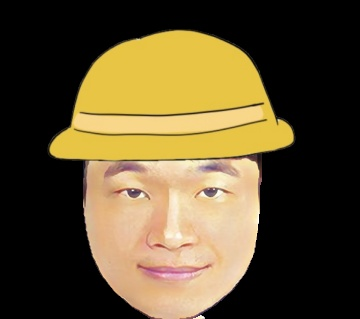
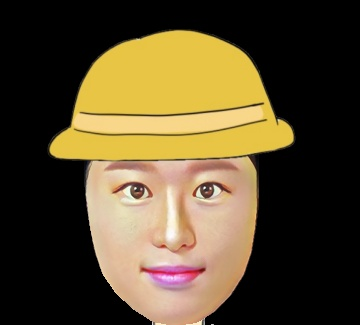
face_alignment 3

diff --git a/back/face_alignment2.py b/back/face_alignment2.py
@@ -1,0 +1,120 @@
+import cv2
+import numpy as numpy
+from google.colab.patches import cv2_imshow
+
+# Creating face_cascade and eye_cascade objects
+face_cascade=cv2.CascadeClassifier("haarcascade_frontalface_default.xml")
+eye_cascade=cv2.CascadeClassifier("haarcascade_eye.xml")
+
+# Loading the image
+img = cv2.imread('emily.jpg')
+cv2_imshow(img)
+
+# Converting the image into grayscale
+gray=cv2.cvtColor(img, cv2.COLOR_BGR2GRAY)
+# Creating variable faces
+faces= face_cascade.detectMultiScale (gray, 1.1, 4)
+# Defining and drawing the rectangle around the face
+for(x , y,  w,  h) in faces:
+  cv2.rectangle(img, (x,y) ,(x+w, y+h), (0,255,0), 3)
+cv2_imshow(img)
+
+# Creating two regions of interest
+roi_gray=gray[y:(y+h), x:(x+w)]
+roi_color=img[y:(y+h), x:(x+w)]
+
+# Creating variable eyes
+eyes = eye_cascade.detectMultiScale(roi_gray, 1.1, 4)
+index=0
+# Creating for loop in order to divide one eye from another
+for (ex , ey,  ew,  eh) in eyes:
+  if index == 0:
+    eye_1 = (ex, ey, ew, eh)
+  elif index == 1:
+    eye_2 = (ex, ey, ew, eh)
+# Drawing rectangles around the eyes
+  cv2.rectangle(roi_color, (ex,ey) ,(ex+ew, ey+eh), (0,0,255), 3)
+  index = index + 1
+cv2_imshow(img)
+
+if eye_1[0] < eye_2[0]:
+   left_eye = eye_1
+   right_eye = eye_2
+else:
+   left_eye = eye_2
+   right_eye = eye_1
+
+# Calculating coordinates of a central points of the rectangles
+left_eye_center = (int(left_eye[0] + (left_eye[2] / 2)), int(left_eye[1] + (left_eye[3] / 2)))
+left_eye_x = left_eye_center[0] 
+left_eye_y = left_eye_center[1]
+ 
+right_eye_center = (int(right_eye[0] + (right_eye[2]/2)), int(right_eye[1] + (right_eye[3]/2)))
+right_eye_x = right_eye_center[0]
+right_eye_y = right_eye_center[1]
+ 
+cv2.circle(roi_color, left_eye_center, 5, (255, 0, 0) , -1)
+cv2.circle(roi_color, right_eye_center, 5, (255, 0, 0) , -1)
+cv2.line(roi_color,right_eye_center, left_eye_center,(0,200,200),3)
+
+if left_eye_y > right_eye_y:
+   A = (right_eye_x, left_eye_y)
+   # Integer -1 indicates that the image will rotate in the clockwise direction
+   direction = -1 
+else:
+   A = (left_eye_x, right_eye_y)
+  # Integer 1 indicates that image will rotate in the counter clockwise  
+  # direction
+   direction = 1 
+
+cv2.circle(roi_color, A, 5, (255, 0, 0) , -1)
+ 
+cv2.line(roi_color,right_eye_center, left_eye_center,(0,200,200),3)
+cv2.line(roi_color,left_eye_center, A,(0,200,200),3)
+cv2.line(roi_color,right_eye_center, A,(0,200,200),3)
+cv2_imshow(img)
+
+delta_x = right_eye_x - left_eye_x
+delta_y = right_eye_y - left_eye_y
+angle=np.arctan(delta_y/delta_x)
+angle = (angle * 180) / np.pi
+
+# Width and height of the image
+h, w = img.shape[:2]
+# Calculating a center point of the image
+# Integer division "//"" ensures that we receive whole numbers
+center = (w // 2, h // 2)
+# Defining a matrix M and calling
+# cv2.getRotationMatrix2D method
+M = cv2.getRotationMatrix2D(center, (angle), 1.0)
+# Applying the rotation to our image using the
+# cv2.warpAffine method
+rotated = cv2.warpAffine(img, M, (w, h))
+cv2_imshow(rotated)
+
+# calculate distance between the eyes in the first image
+dist_1 = np.sqrt((delta_x * delta_x) + (delta_y * delta_y))
+
+# calculate distance between the eyes in the second image
+dist_2 = np.sqrt((delta_x_1 * delta_x_1) + (delta_y_1 * delta_y_1))
+
+#calculate the ratio
+ratio = dist_1 / dist_2
+
+# Defining the width and height
+h=476
+w=488
+# Defining aspect ratio of a resized image
+dim = (int(w * ratio), int(h * ratio))
+# We have obtained a new image that we call resized3
+resized = cv2.resize(rotated, dim)
+cv2_imshow(resized)
+
+# Defining the width and height
+h=740
+w=723
+# Defining aspect ratio of a resized image
+dim = (int(w * ratio), int(h * ratio))
+# We have obtained a new image that we call resized3
+resized = cv2.resize(rotated, dim)
+cv2_imshow(resized)

diff --git a/back/AI/make_image.py b/back/AI/make_image.py
@@ -7,7 +7,7 @@ from Cartoonization import test
 
 def make_image(user_id):
     # 1. 이미지 받기
-    original_image_path = "./images/input_images/KTI2.jpg"
+    original_image_path = "./images/input_images/HYJ.jpg"
     original_image_name = original_image_path[22:-4]
     origin_image = cv2.imread(original_image_path, cv2.IMREAD_UNCHANGED)
     BGRA_image = cv2.cvtColor(origin_image, cv2.COLOR_BGR2BGRA)
@@ -69,7 +69,7 @@ def make_image(user_id):
         chin_end[0])), (int(min_y), int(fr_chin_bottom))
     Trimmed_image = Nukkied_image[Trim_y[0]: Trim_y[1], Trim_x[0]: Trim_x[1]]
 
-    Nukkied_image = cv2.resize(Trimmed_image, (180, 200),
+    Nukkied_image = cv2.resize(Trimmed_image, (175, 210),
                             fx=1, fy=1, interpolation=cv2.INTER_AREA)
 
     Nukkied_image_path = './images/nukkied_images'
@@ -86,7 +86,7 @@ def make_image(user_id):
     # 2-3-1. resize
     cartooned_image = Image.open(cartooned_image_path)
     cartooned_RGBA_image = cartooned_image.convert('RGBA')
-    cartooned_RGBA_image = cartooned_RGBA_image.resize((180, 200), resample=3,
+    cartooned_RGBA_image = cartooned_RGBA_image.resize((175, 210), resample=3,
                                                     box=None, reducing_gap=None)
     resized_cartooned_path = './images/cartooned_images/' + 'resized_' + cartooned_image_name
     cartooned_RGBA_image.save(resized_cartooned_path, 'PNG')
@@ -104,7 +104,7 @@ def make_image(user_id):
     chin_x = np_fr_chin[np.argmax(chin_y)]
     chin_start, chin_end = np_fr_chin[0], np_fr_chin[-1]
 
-    left_start, right_end = (0, 0), (200, 0)
+    left_start, right_end = (0, 0), (210, 0)
 
     nukki_coordinate = []
     nukki_coordinate.append(left_start)
@@ -162,7 +162,7 @@ def make_image(user_id):
 
     # 4. 결과 출력
 
-    Trim_y = (0, int(fr_chin_bottom) + 118)
+    Trim_y = (0, int(fr_chin_bottom) + 120)
     Trimmed_image = baby_body[Trim_y[0]: Trim_y[1], :]
 
     Trimmed_path = os.path.join('./images/my_image/' , 'baby_' + str(user_id) + '.jpg')

diff --git a/back/face_alignment3.py b/back/face_alignment3.py
@@ -1,0 +1,42 @@
+import numpy as np
+import cv2 as cv
+
+
+# 얼굴과 눈을 검출하기 위해 미리 학습시켜 놓은 XML 포맷으로 저장된 분류기를 로드합니다. 
+face_cascade = cv.CascadeClassifier('haarcascade_frontalface_default.xml')
+eye_cascade = cv.CascadeClassifier('haarcascade_eye.xml')
+
+
+# 얼굴과 눈을 검출할 그레이스케일 이미지를 준비해놓습니다. 
+img = cv.imread('sachin.jpg')
+gray = cv.cvtColor(img, cv.COLOR_BGR2GRAY)
+
+
+# 이미지에서 얼굴을 검출합니다. 
+faces = face_cascade.detectMultiScale(gray, 1.3, 5)
+
+
+# 얼굴이 검출되었다면 얼굴 위치에 대한 좌표 정보를 리턴받습니다. 
+for (x,y,w,h) in faces:
+
+    # 원본 이미지에 얼굴의 위치를 표시합니다. 
+    cv.rectangle(img,(x,y),(x+w,y+h),(255,0,0),2)
+
+    # 눈 검출은 얼굴이 검출된 영역 내부에서만 진행하기 위해 ROI를 생성합니다. 
+    roi_gray = gray[y:y+h, x:x+w]
+    roi_color = img[y:y+h, x:x+w]
+
+    # 눈을 검출합니다. 
+    eyes = eye_cascade.detectMultiScale(roi_gray)
+
+    # 눈이 검출되었다면 눈 위치에 대한 좌표 정보를 리턴받습니다. 
+    for (ex,ey,ew,eh) in eyes:
+        # 원본 이미지에 얼굴의 위치를 표시합니다. ROI에 표시하면 원본 이미지에도 표시됩니다. 
+        cv.rectangle(roi_color,(ex,ey),(ex+ew,ey+eh),(0,255,0),2)
+
+
+# 얼굴과 눈 검출 결과를 화면에 보여줍니다.
+cv.imshow('img',img)
+cv.waitKey(0)
+
+cv.destroyAllWindows()
